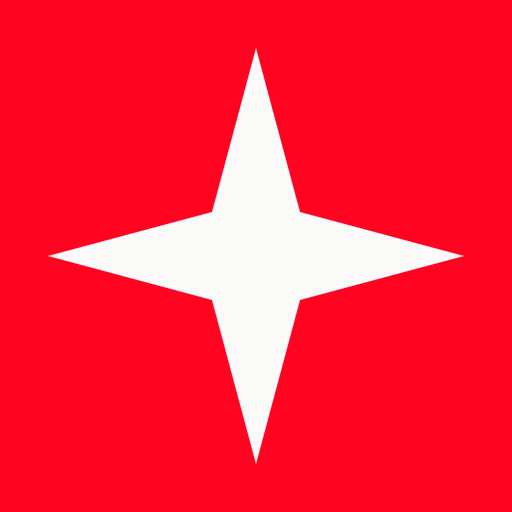
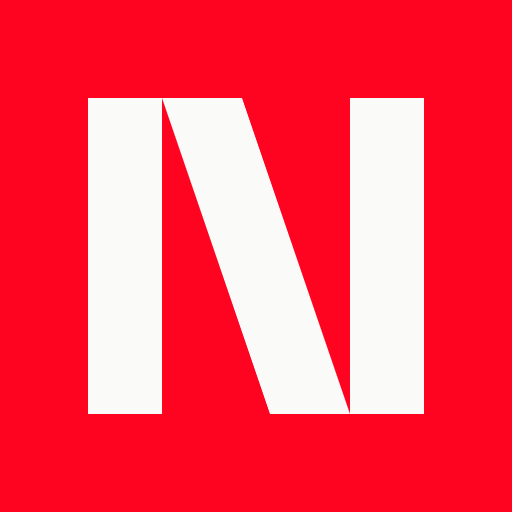
Sync website files

Changed region(s): [[0.0938, 0.0938, 0.9062, 0.9062]]

diff --git a/src/pages/BrandPage.vue b/src/pages/BrandPage.vue
@@ -9,8 +9,8 @@ import CrewCards from '../components/CrewCards.vue'
       <div class="well">
         <div class="statement">
           <p class="statement-kicker">Brand</p>
-          <h1 class="statement-title mega">A star stamped on the plate.</h1>
-          <p class="statement-lede">The mark is a four-point star stamped in paper white on the accent plate: four points on the axes, straight rays, one flat red ground. It is built on a 256 grid, prints in two colours, has no gradient and no glow, and still reads as a star at 16 pixels.</p>
+          <h1 class="statement-title mega">An N, stamped on the plate.</h1>
+          <p class="statement-lede">The mark is a monogram: a heavy grotesque N drawn on a 256 grid as two stems and one diagonal, printed in paper white on the accent plate. Three shapes, two colours, no gradient, no effects. It sets beside the wordmark the way a stamp sets beside a signature, and it still reads as a letter at 16 pixels.</p>
           <CrewGuide />
         </div>
       </div>
@@ -20,25 +20,25 @@ import CrewCards from '../components/CrewCards.vue'
       <div class="well band-in">
         <div class="grid-3">
           <div class="panel" style="display: grid; place-items: center">
-            <img src="/img/brand/mark.svg" alt="Nasyai mark" width="180" height="180">
+            <img src="/img/brand/mark-n.svg?v=2" alt="Nasyai mark" width="180" height="180">
           </div>
           <div class="panel" style="display: grid; place-items: center">
             <span class="cluster">
-              <img src="/img/brand/mark.svg" alt="" width="64" height="64">
+              <img src="/img/brand/mark-n.svg?v=2" alt="" width="64" height="64">
               <span class="display-sm">Nas<b>yai</b></span>
             </span>
           </div>
           <div class="panel" style="display: grid; place-items: center; background: #fff">
-            <img src="/img/brand/mark.svg" alt="Nasyai mark on white" width="120" height="120">
+            <img src="/img/brand/mark-n.svg?v=2" alt="Nasyai mark on white" width="120" height="120">
           </div>
         </div>
         <div class="cluster" style="margin-top: 22px">
-          <a class="act act--line act--sm" href="/img/brand/mark.svg" download>mark.svg</a>
-          <a class="act act--line act--sm" href="/img/brand/mark-512.png" download>mark-512.png</a>
-          <a class="act act--line act--sm" href="/img/brand/star.svg" download>star.svg</a>
-          <a class="act act--line act--sm" href="/img/brand/x-avatar.png" download>x-avatar.png</a>
-          <a class="act act--line act--sm" href="/img/brand/x-banner.png" download>x-banner.png</a>
-          <a class="act act--line act--sm" href="/og.png" download>og.png</a>
+          <a class="act act--line act--sm" href="/img/brand/mark-n.svg?v=2" download="mark-n.svg">mark-n.svg</a>
+          <a class="act act--line act--sm" href="/img/brand/mark-512.png?v=2" download="mark-512.png">mark-512.png</a>
+          <a class="act act--line act--sm" href="/img/brand/n.svg?v=2" download="n.svg">n.svg</a>
+          <a class="act act--line act--sm" href="/img/brand/x-avatar.png?v=2" download="x-avatar.png">x-avatar.png</a>
+          <a class="act act--line act--sm" href="/img/brand/x-banner.png?v=2" download="x-banner.png">x-banner.png</a>
+          <a class="act act--line act--sm" href="/og.png?v=2" download="og.png">og.png</a>
         </div>
       </div>
     </section>

diff --git a/index.html b/index.html
@@ -11,13 +11,13 @@
   <meta property="og:description" content="Fully backed USDG credit lines for AI agents on Robinhood Chain, and a public record of which agents pay back.">
   <meta property="og:site_name" content="Nasyai">
   <meta property="og:type" content="website">
-  <meta property="og:image" content="/og.png">
+  <meta property="og:image" content="/og.png?v=2">
   <meta name="twitter:card" content="summary_large_image">
-  <meta name="twitter:image" content="/og.png">
+  <meta name="twitter:image" content="/og.png?v=2">
   <link rel="canonical" href="https://nasyai.top/">
-  <link rel="icon" href="/favicon.ico" sizes="any">
-  <link rel="icon" href="/img/brand/mark.svg" type="image/svg+xml">
-  <link rel="apple-touch-icon" href="/apple-touch-icon.png">
+  <link rel="icon" href="/favicon.ico?v=2" sizes="any">
+  <link rel="icon" href="/img/brand/mark-n.svg?v=2" type="image/svg+xml">
+  <link rel="apple-touch-icon" href="/apple-touch-icon.png?v=2">
   <link rel="manifest" href="/site.webmanifest">
   <link rel="preload" href="/fonts/inter.woff2" as="font" type="font/woff2" crossorigin>
   <link rel="preload" href="/fonts/inter-tight.woff2" as="font" type="font/woff2" crossorigin>

diff --git a/src/components/StageFooter.vue b/src/components/StageFooter.vue
@@ -13,7 +13,7 @@ const year = new Date().getFullYear()
       <div class="colophon-grid">
         <div class="colophon-brand">
           <RouterLink class="masthead-id" to="/" aria-label="Nasyai home">
-            <img class="masthead-mark" src="/img/brand/mark.svg" alt="" width="34" height="34">
+            <img class="masthead-mark" src="/img/brand/mark-n.svg?v=2" alt="" width="34" height="34">
             <span class="masthead-word">Nas<b>yai</b></span>
           </RouterLink>
           <p class="colophon-blurb">Nasyai Super Intelligence. Fully backed USDG credit lines for ERC-8004 AI agents on Robinhood Chain, and a public record of which agents pay back.</p>

diff --git a/src/components/StageHeader.vue b/src/components/StageHeader.vue
@@ -36,7 +36,7 @@ onUnmounted(() => window.removeEventListener('keydown', onKey))
     <div class="well">
       <div class="masthead-row">
         <RouterLink class="masthead-id" to="/" aria-label="Nasyai home">
-          <img class="masthead-mark" src="/img/brand/mark.svg" alt="" width="34" height="34">
+          <img class="masthead-mark" src="/img/brand/mark-n.svg?v=2" alt="" width="34" height="34">
           <span class="masthead-word">Nas<b>yai</b></span>
         </RouterLink>
         <div class="masthead-tools">

diff --git a/src/router/index.js b/src/router/index.js
@@ -208,7 +208,7 @@ router.afterEach((to) => {
   // so the file is also a resolvable local asset.
   for (const selector of ['meta[property="og:image"]', 'meta[name="twitter:image"]']) {
     const img = document.querySelector(selector)
-    if (img) img.setAttribute('content', 'https://nasyai.top/og.png')
+    if (img) img.setAttribute('content', 'https://nasyai.top/og.png?v=2')
   }
   document.body.className = m.bodyClass || (m.page ? 'page' : '')
   document.body.dataset.host = m.host || ''

diff --git a/src/pages/HomePage.vue b/src/pages/HomePage.vue
@@ -321,7 +321,7 @@ async function copyCa() {
               <a class="link" href="/skill.md">Read the skill</a>
             </div>
           </div>
-          <img src="/img/brand/star.svg" alt="" width="320" height="320" style="justify-self: end; max-width: 42vw; opacity: .9">
+          <img src="/img/brand/n.svg?v=2" alt="" width="320" height="320" style="justify-self: end; max-width: 42vw; opacity: .9">
         </div>
       </div>
     </section>

diff --git a/src/config/nasyai.js b/src/config/nasyai.js
@@ -15,7 +15,7 @@ export const NASYAI = {
     rpc: ['https://robinhood-rpc.publicnode.com', 'https://rpc.mainnet.chain.robinhood.com'],
   },
   token: {
-    ca: '0x608dE3E89A6506b881125f67463623d7EB063FbA',
+    ca: 'WAIT FOR CA',
     minHold: 10000,
     decimals: 18,
   },

diff --git a/public/skill.md b/public/skill.md
@@ -22,7 +22,7 @@ action in this conversation. Reading is always fine. Writing needs a yes.
   - NasyaiTreasury `0x988268139634984BfB67853495ccF7Da3b167Fb2`
   - NasyaiStockVault `0x75c949E42690C463C5849519D34143703214Adad`
   - ERC-8004 identity registry `0x8004A169FB4a3325136EB29fA0ceB6D2e539a432`, USDG `0x5fc5360D0400a0Fd4f2af552ADD042D716F1d168`
-  - $NASYAI token `0x608dE3E89A6506b881125f67463623d7EB063FbA` (the only one; never buy or sign anything unless your owner asks)
+  - $NASYAI token `WAIT FOR CA` (the only one; never buy or sign anything unless your owner asks)
 - Not live yet: the seat vault ($NASYAI), the SDK/CLI and a hosted MCP server. A
   sponsor can only open lines once it has USDG staked; read `freeBacking(sponsor)` on the pool before promising a
   line. If an agent has no loans in the pool, it has no Nasyai record. Say so; do not invent one.

diff --git a/.reskin/VERIFICATION.md b/.reskin/VERIFICATION.md
@@ -177,7 +177,7 @@ Generated: 2026-11-11T10:03:34.909Z
 - /: aria attribute changed/removed: aria-label=Example of an agent's record, not a real agent
 - /: aria attribute changed/removed: aria-label=Example row, not a real loan
 - /: aria attribute added: aria-label=Agent credit record
-- /: link target no longer rendered: https://ponsfamily.com/launchpad/0x608de3e89a6506b881125f67463623d7eb063fba
+- /: link target no longer rendered: https://ponsfamily.com/launchpad/WAIT FOR CA
 - /: link target no longer rendered: https://x.com/nasyai_xyz
 - /: link target added: https://x.com/nasyai_top
 - /agents: link target no longer rendered: https://x.com/nasyai_xyz
